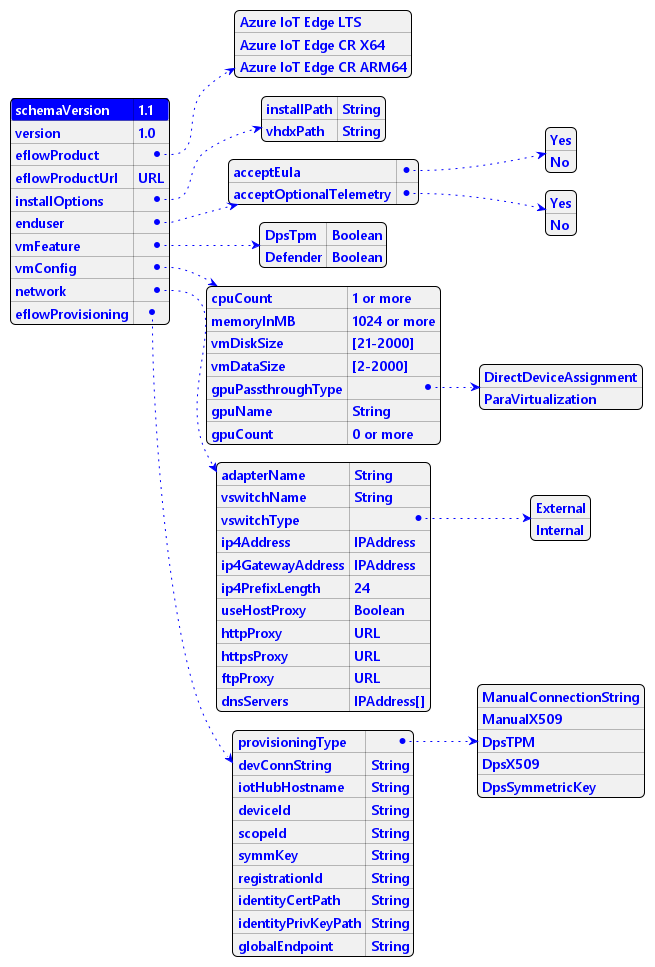
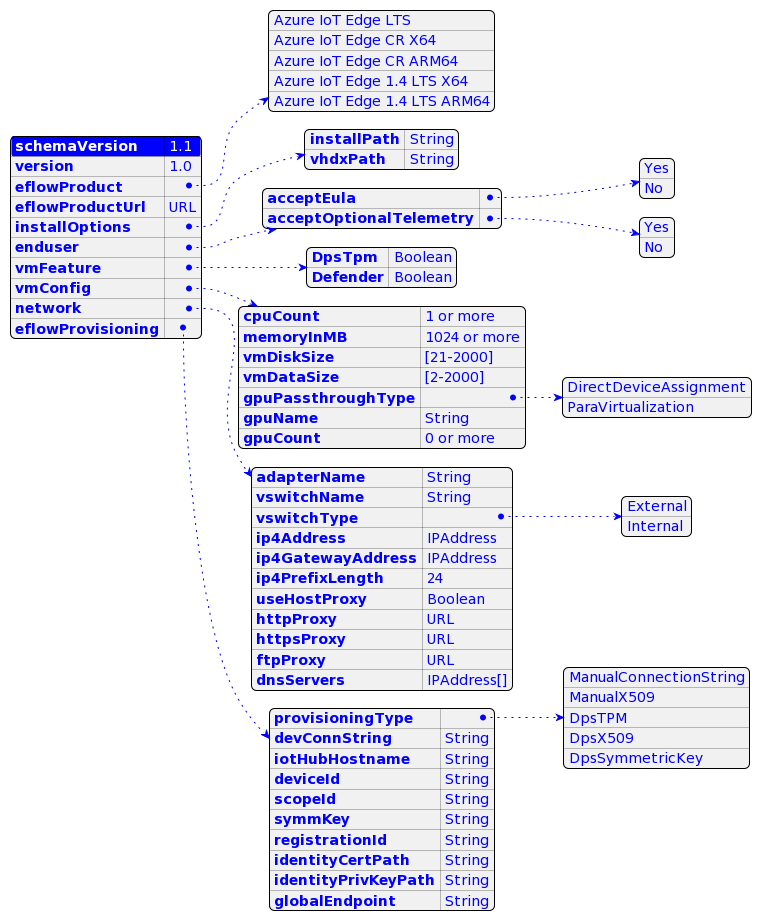
Fixes table/png for 1.4LTS

diff --git a/eflowautodeploy/README.md b/eflowautodeploy/README.md
@@ -41,7 +41,7 @@ The below table provides the details of the supported parameters in the json fil
 | --------- | -------- |---------------- | -------- |
 | schemaVersion | Mandatory | 1.1 | Fixed value, schema version. Reserved. Added ftpProxy and useHostProxy |
 | Version | Mandatory | 1.0 | Fixed value, json instance version. Reserved |
-| eflowProduct | Mandatory | <ul><li>Azure IoT Edge LTS</li><li>Azure IoT Edge CR X64</li><li>Azure IoT Edge CR ARM64</li></ul>| Supported EFLOW product versions |
+| eflowProduct | Mandatory | <ul><li>Azure IoT Edge LTS</li><li>Azure IoT Edge CR X64</li><li>Azure IoT Edge CR ARM64</li><li>Azure IoT Edge 1.4 LTS X64</li><li>Azure IoT Edge 1.4 LTS ARM64</li></ul>| Supported EFLOW product versions |
 | eflowProductUrl | Optional | String (url) | Download Url to install specific  Eflow versions. (Eg. https://aka.ms/AzEFLOW-1_1_2203_14042) |
 | *enduser* | |  | *End user configuration* |
 | acceptEula | Mandatory | Yes |  Accept Eula |
